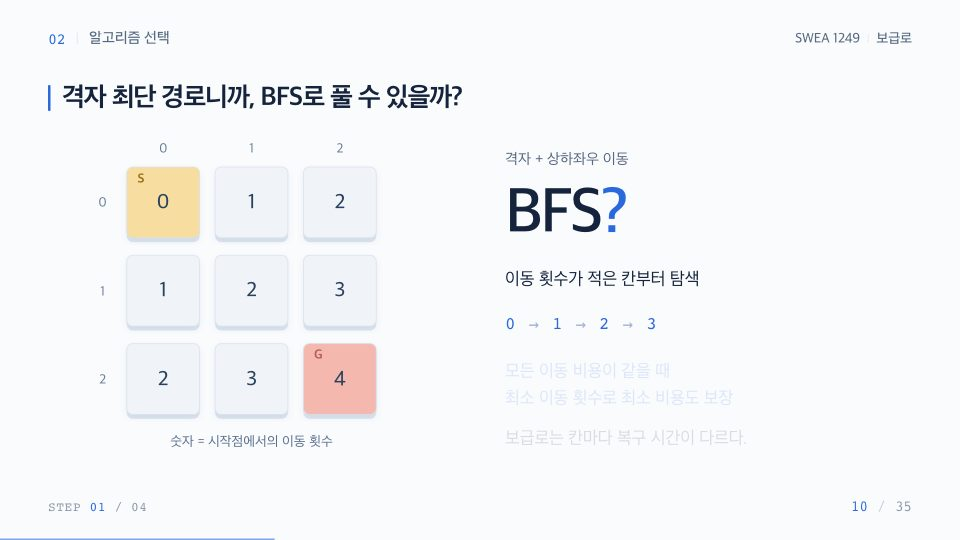
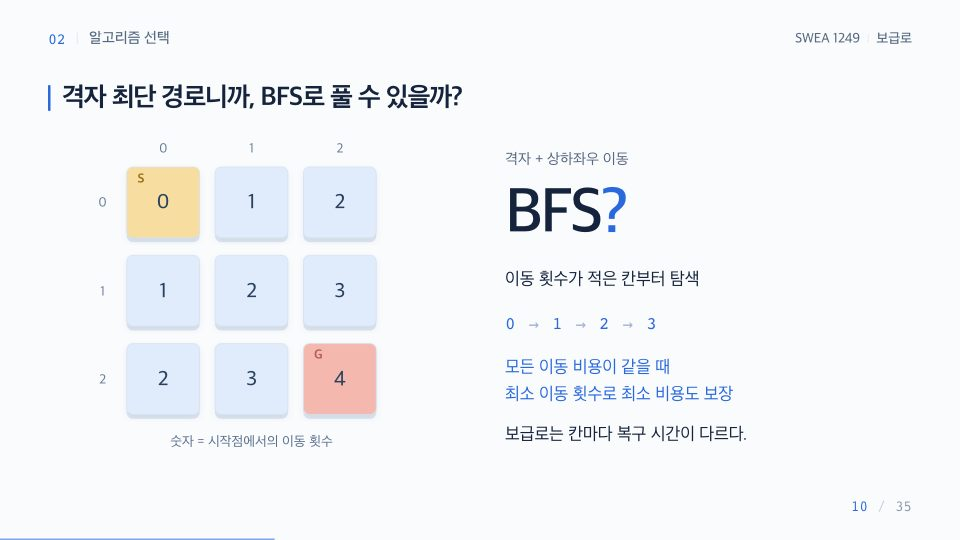
Automatically reveal introductory slides without manual steps

diff --git a/src/app/automaticReveal.test.ts b/src/app/automaticReveal.test.ts
@@ -1,0 +1,66 @@
+import test from "node:test";
+import assert from "node:assert/strict";
+import { renderToStaticMarkup } from "react-dom/server";
+import { createElement } from "react";
+import { AUTO_REVEAL_INTERVAL_MS, scheduleAutomaticReveal } from "./automaticReveal";
+import { AlgorithmCandidates } from "../components/AlgorithmSelection";
+
+test("entrance phases appear in order, once, then stop", context => {
+  context.mock.timers.enable({ apis: ["setTimeout"] });
+  const seen: number[] = [];
+  const cleanup = scheduleAutomaticReveal(4, stage => seen.push(stage));
+  context.mock.timers.tick(AUTO_REVEAL_INTERVAL_MS - 1);
+  assert.deepEqual(seen, []);
+  context.mock.timers.tick(1);
+  assert.deepEqual(seen, [1]);
+  context.mock.timers.tick(AUTO_REVEAL_INTERVAL_MS);
+  assert.deepEqual(seen, [1, 2]);
+  context.mock.timers.tick(AUTO_REVEAL_INTERVAL_MS);
+  assert.deepEqual(seen, [1, 2, 3]);
+  context.mock.timers.tick(60_000);
+  assert.deepEqual(seen, [1, 2, 3]);
+  cleanup();
+});
+
+test("slide exit cancels pending reveals and re-entry starts a fresh sequence", context => {
+  context.mock.timers.enable({ apis: ["setTimeout"] });
+  const first: number[] = [];
+  const stop = scheduleAutomaticReveal(4, stage => first.push(stage));
+  context.mock.timers.tick(AUTO_REVEAL_INTERVAL_MS);
+  stop();
+  const second: number[] = [];
+  const stopAgain = scheduleAutomaticReveal(3, stage => second.push(stage));
+  context.mock.timers.tick(AUTO_REVEAL_INTERVAL_MS - 1);
+  assert.deepEqual(second, []);
+  context.mock.timers.tick(1);
+  assert.deepEqual(second, [1]);
+  context.mock.timers.tick(60_000);
+  assert.deepEqual(first, [1]);
+  assert.deepEqual(second, [1, 2]);
+  stopAgain();
+});
+
+test("StrictMode setup and cleanup do not duplicate entrance phases", context => {
+  context.mock.timers.enable({ apis: ["setTimeout"] });
+  const seen: number[] = [];
+  scheduleAutomaticReveal(3, stage => seen.push(stage))();
+  const cleanup = scheduleAutomaticReveal(3, stage => seen.push(stage));
+  context.mock.timers.tick(60_000);
+  assert.deepEqual(seen, [1, 2]);
+  cleanup();
+});
+
+test("candidate rows reveal individually before the concluding BFS emphasis", () => {
+  for (let stage = 0; stage <= 5; stage++) {
+    const html = renderToStaticMarkup(createElement(AlgorithmCandidates, { step: stage }));
+    const tbody = html.split("<tbody>")[1].split("</tbody>")[0];
+    const rows = tbody.match(/<tr\b[^>]*>/g) ?? [];
+    assert.equal(rows.length, 5);
+    rows.forEach((row, index) => {
+      assert.ok(row.includes(`aria-hidden="${index > stage}"`));
+      assert.ok(row.includes(`opacity:${index > stage ? 0 : 1}`));
+    });
+    assert.equal(html.includes('class="candidate-bfs"'), stage === 5);
+    assert.ok(html.includes(`class="selection-takeaway" aria-hidden="${stage < 5}"`));
+  }
+});

diff --git a/src/slides/slides.tsx b/src/slides/slides.tsx
@@ -82,13 +82,13 @@ export function SlideContent({ id, step }: { id: string; step: number }) {
             <span className="label">출발점 S</span>
             <strong>(0, 0)</strong>
           </p>
-          <Reveal show={step >= 1}>
+          <Reveal show={step >= 1} hiddenOpacity={0}>
             <p>
               <span className="label">도착점 G</span>
               <strong>(N−1, N−1)</strong>
             </p>
           </Reveal>
-          <Reveal show={step >= 2}>
+          <Reveal show={step >= 2} hiddenOpacity={0}>
             <p className="muted">
               N × N 격자 · 0-based 인덱스
               <br />
@@ -127,13 +127,13 @@ export function SlideContent({ id, step }: { id: string; step: number }) {
             <span>이동 거리 · 이동 횟수</span>
             <span>×</span>
           </div>
-          <Reveal show={step >= 1}>
+          <Reveal show={step >= 1} hiddenOpacity={0}>
             <div className="objective-row blue">
               <span>복구 시간의 합</span>
               <Icon name="check" size={40} />
             </div>
           </Reveal>
-          <Reveal show={step >= 2}>
+          <Reveal show={step >= 2} hiddenOpacity={0}>
             <p className="objective-result">
               칸마다 비용 <b>0~9</b>
               <br />
@@ -156,7 +156,7 @@ export function SlideContent({ id, step }: { id: string; step: number }) {
           <div className="bfs-levels">
             0 <span>→</span> 1 <span>→</span> 2 <span>→</span> 3
           </div>
-          <Reveal show={step >= 3}>
+          <Reveal show={step >= 3} hiddenOpacity={0}>
             <p className="blue">
               모든 이동 비용이 같을 때<br />
               최소 이동 횟수로 최소 비용도 보장
@@ -181,7 +181,7 @@ export function SlideContent({ id, step }: { id: string; step: number }) {
             ["상하좌우 이동", "간선 · Edge"],
             ["복구 시간", "가중치 · Weight"],
           ].map(([a, b], i) => (
-            <Reveal key={a} show={step >= i + 1}>
+            <Reveal key={a} show={step >= i + 1} hiddenOpacity={0}>
               <span>{a}</span>
               <i>→</i>
               <strong>{b}</strong>

diff --git a/src/slides/deck.ts b/src/slides/deck.ts
@@ -1,6 +1,7 @@
 import { graphPresentationSteps, gridSteps } from "../dijkstra/snapshots";
 import { chapters } from "./chapters";
 import { javaSteps, gridCodeSteps } from "./code";
+import { algorithmChoices } from "./algorithmChoices";
 
 export type SlideDefinition = {
   id: string;
@@ -8,6 +9,8 @@ export type SlideDefinition = {
   sectionName: string;
   title: string;
   steps: number;
+  // Entry animation phases are independent of keyboard navigation and URL steps.
+  autoRevealStages?: number;
   kind: "cover" | "agenda" | "chapter" | "content" | "closing";
 };
 
@@ -31,35 +34,40 @@ const contentSlides = [
     section: "01",
     sectionName: "문제 이해",
     title: "한 번에 한 칸, 상하좌우로 이동한다",
-    steps: 3,
+    steps: 1,
+    autoRevealStages: 3,
   },
   {
     id: "objective",
     section: "01",
     sectionName: "문제 이해",
     title: "최소화해야 하는 것은 총 복구 시간이다",
-    steps: 3,
+    steps: 1,
+    autoRevealStages: 3,
   },
   {
     id: "candidates",
     section: "02",
     sectionName: "알고리즘 선택",
     title: "그래프 탐색과 최단 경로의 대표 알고리즘",
-    steps: 2,
+    steps: 1,
+    autoRevealStages: algorithmChoices.length + 1,
   },
   {
     id: "interpretation",
     section: "02",
     sectionName: "알고리즘 선택",
     title: "격자도 결국 그래프다",
-    steps: 4,
+    steps: 1,
+    autoRevealStages: 4,
   },
   {
     id: "bfs",
     section: "02",
     sectionName: "알고리즘 선택",
     title: "격자 최단 경로니까, BFS로 풀 수 있을까?",
-    steps: 4,
+    steps: 1,
+    autoRevealStages: 4,
   },
   {
     id: "counterexample",

diff --git a/src/app/deck.test.ts b/src/app/deck.test.ts
@@ -41,6 +41,29 @@ test("selection introduces candidates and graph interpretation before BFS and it
   );
 });
 
+test("only pages 05, 06, 08, 09 and 10 reveal automatically with no manual steps", () => {
+  const automatic = slides.filter(slide => slide.autoRevealStages !== undefined);
+  assert.deepEqual(automatic.map(slide => slides.indexOf(slide) + 1), [5, 6, 8, 9, 10]);
+  assert.deepEqual(automatic.map(slide => slide.id),
+    ["rules", "objective", "candidates", "interpretation", "bfs"]);
+  assert.deepEqual(automatic.map(slide => slide.autoRevealStages), [3, 3, 6, 4, 4]);
+  const lengths = slides.map(slide => slide.steps);
+  const reduce = createPresentationReducer(lengths);
+  for (const slide of automatic) {
+    const index = slides.indexOf(slide);
+    assert.equal(slide.steps, 1);
+    // Old shared step URLs are normalized to the single navigable state.
+    const state = readLocation(`?scene=${index + 1}&step=4`, lengths);
+    assert.equal(state.step, 0);
+    assert.equal(reduce(state, { type: "next" }).index, index + 1);
+    assert.equal(reduce(state, { type: "previous" }).index, index - 1);
+    assert.deepEqual(reduce(state, { type: "play" }), state);
+    assert.deepEqual(reduce(state, { type: "tick" }), state);
+  }
+  assert.equal(slides.find(slide => slide.id === "counterexample")?.steps, 3);
+  assert.equal(slides.find(slide => slide.id === "choice")?.steps, 4);
+});
+
 test("grid execution follows the code directly inside chapter four", () => {
   const codeIndex = slides.findIndex(slide => slide.id === "grid-code");
   assert.deepEqual(slides.slice(codeIndex, codeIndex + 3).map(slide => slide.id),

diff --git a/src/components/AlgorithmSelection.tsx b/src/components/AlgorithmSelection.tsx
@@ -1,8 +1,10 @@
 import { algorithmChoices } from "../slides/algorithmChoices";
 import { Reveal } from "./ConceptVisuals";
 import { Icon } from "./Icon";
+import { motion } from "framer-motion";
 
 export function AlgorithmCandidates({ step }: { step: number }) {
+  const complete = step >= algorithmChoices.length;
   return (
     <div className="algorithm-candidates">
       <p className="selection-lead">
@@ -16,20 +18,24 @@ export function AlgorithmCandidates({ step }: { step: number }) {
           </tr>
         </thead>
         <tbody>
-          {algorithmChoices.map((algorithm) => (
-            <tr
+          {algorithmChoices.map((algorithm, index) => (
+            <motion.tr
               key={algorithm.id}
+              initial={false}
+              animate={{ opacity: step >= index ? 1 : 0 }}
+              transition={{ duration: 0.35 }}
+              aria-hidden={step < index}
               className={
-                step >= 1 && algorithm.id === "bfs" ? "candidate-bfs" : ""
+                complete && algorithm.id === "bfs" ? "candidate-bfs" : ""
               }
             >
               <th scope="row">{algorithm.name}</th>
               <td>{algorithm.purpose}</td>
-            </tr>
+            </motion.tr>
           ))}
         </tbody>
       </table>
-      <Reveal show={step >= 1} className="selection-takeaway">
+      <Reveal show={complete} hiddenOpacity={0} className="selection-takeaway">
         격자와 상하좌우 이동을 보면 <strong>BFS</strong>가 떠오른다.
       </Reveal>
     </div>

diff --git a/src/app/Presentation.tsx b/src/app/Presentation.tsx
@@ -7,6 +7,7 @@ import {
 } from "framer-motion";
 import { Icon } from "../components/Icon";
 import { SlideNavigator } from "../components/SlideNavigator";
+import { AutomaticReveal } from "../components/AutomaticReveal";
 import { fitStage } from "./navigation";
 import { slides, SlideContent } from "../slides/slides";
 import { graphPresentationSteps, gridSteps } from "../dijkstra/snapshots";
@@ -253,7 +254,13 @@ export function Presentation() {
               {!["cover", "chapter", "closing"].includes(slide.kind) && (
                 <h1 className="slide-title">{slide.title}</h1>
               )}
-              <SlideContent id={slide.id} step={step} />
+              {slide.autoRevealStages ? (
+                <AutomaticReveal stages={slide.autoRevealStages}>
+                  {(stage) => <SlideContent id={slide.id} step={stage} />}
+                </AutomaticReveal>
+              ) : (
+                <SlideContent id={slide.id} step={step} />
+              )}
             </motion.section>
           </AnimatePresence>
           <footer className="slide-footer">

diff --git a/src/components/AutomaticReveal.tsx b/src/components/AutomaticReveal.tsx
@@ -1,0 +1,22 @@
+import { useEffect, useState, type ReactNode } from "react";
+import { useReducedMotion } from "framer-motion";
+import { scheduleAutomaticReveal } from "../app/automaticReveal";
+
+// Mount inside the keyed slide, after the outgoing slide's exit has completed.
+// Content phases never change the presentation step or restart on parent renders.
+export function AutomaticReveal({
+  stages,
+  children,
+}: {
+  stages: number;
+  children: (stage: number) => ReactNode;
+}) {
+  const [stage, setStage] = useState(0);
+  const reduced = useReducedMotion();
+  useEffect(() => {
+    if (reduced) return;
+    return scheduleAutomaticReveal(stages, setStage);
+  }, [stages, reduced]);
+
+  return children(reduced ? stages - 1 : stage);
+}

diff --git a/src/app/automaticReveal.ts b/src/app/automaticReveal.ts
@@ -1,0 +1,13 @@
+export const AUTO_REVEAL_INTERVAL_MS = 900;
+
+// Schedule a finite entrance sequence, never a presentation navigation action.
+// Cleanup cancels pending phases on slide exit, reset, or StrictMode remount.
+export function scheduleAutomaticReveal(
+  stages: number,
+  onReveal: (stage: number) => void,
+) {
+  const timers = Array.from({ length: Math.max(0, stages - 1) }, (_, index) =>
+    setTimeout(() => onReveal(index + 1), (index + 1) * AUTO_REVEAL_INTERVAL_MS),
+  );
+  return () => timers.forEach(clearTimeout);
+}

diff --git a/src/components/ConceptVisuals.tsx b/src/components/ConceptVisuals.tsx
@@ -6,16 +6,18 @@ export function Reveal({
   show,
   children,
   className = "",
+  hiddenOpacity = 0.14,
 }: {
   show: boolean;
   children: React.ReactNode;
   className?: string;
+  hiddenOpacity?: number;
 }) {
   return (
     <motion.div
       className={className}
       initial={false}
-      animate={{ opacity: show ? 1 : 0.14, y: show ? 0 : 8 }}
+      animate={{ opacity: show ? 1 : hiddenOpacity, y: show ? 0 : 8 }}
       transition={{ duration: 0.35 }}
       aria-hidden={!show}
     >

diff --git a/scripts/capture-slide-thumbnails.js b/scripts/capture-slide-thumbnails.js
@@ -4,6 +4,7 @@ async (page) => {
   const originalUrl = page.url();
   const origin = await page.evaluate(() => location.origin);
   await page.setViewportSize({ width: 960, height: 540 });
+  // Entry-only animations show their complete content in thumbnail captures.
   await page.emulateMedia({ reducedMotion: "reduce" });
   const slides = await page.locator(".navigator-slide").evaluateAll(buttons =>
     buttons.map((button, index) => ({ id: button.dataset.slideId, scene: index + 1 })),

diff --git a/README.md b/README.md
@@ -36,7 +36,9 @@ npm run preview -- --port 5189
 
 일반 화면에서는 왼쪽에 35장 전체의 캡처 썸네일과 번호를 표시합니다. 각 이미지는 실제 슬라이드 첫 단계의 960×540 JPEG이며, 제목은 툴팁과 접근성 이름으로 제공합니다. 현재 슬라이드를 파란 테두리로 강조하고 목록을 자동으로 스크롤합니다. 이미지를 선택하면 자동재생을 멈추고 해당 슬라이드의 첫 단계로 이동합니다. 목록에서는 ↑/↓, Home/End로 포커스를 옮기고 Enter/Space로 선택합니다. 선택 후에는 발표 영역으로 포커스가 돌아갑니다. 목록 상단 전체화면 버튼 또는 F를 누르면 목록을 숨기며, 전체화면을 종료하면 현재 위치를 유지한 채 다시 표시합니다.
 
-URL `?scene=22&step=11`처럼 **1-based** 슬라이드·단계 번호로 직접 열 수 있습니다. 현재 위치는 URL에 반영되어 새로고침해도 복원됩니다. 자동재생 여부는 복원하지 않습니다.
+05·06·08·09·10페이지는 수동 STEP 없이 진입 시 약 0.9초 간격으로 내용을 순차 공개합니다. 08페이지는 후보 목록을 한 줄씩 보여준 뒤 BFS를 강조합니다. 다음 키는 공개가 끝나기 전에도 바로 다음 슬라이드로 이동하고, 다른 슬라이드에서 돌아오거나 R을 누르면 처음부터 다시 등장합니다. 공개는 한 번만 진행하며 자동으로 다음 페이지를 넘기지 않습니다. 동작 줄이기 설정에서는 대기 없이 전체 내용을 표시합니다. 이 다섯 페이지의 썸네일에는 전체 내용이 나타난 모습을 사용합니다.
+
+URL `?scene=22&step=11`처럼 **1-based** 슬라이드·단계 번호로 직접 열 수 있습니다. 현재 위치는 URL에 반영되어 새로고침해도 복원됩니다. 자동재생 여부는 복원하지 않습니다. 자동 등장 페이지의 이전 단계 URL은 `step=1`로 정규화합니다.
 
 ## 발표 구성
 
@@ -88,7 +90,7 @@ URL `?scene=22&step=11`처럼 **1-based** 슬라이드·단계 번호로 직접 
 
 슬라이드 내용이 바뀌면 `scripts/capture-slide-thumbnails.js`를 Playwright CLI의 `run-code --filename`으로 실행해 썸네일을 다시 생성합니다. 먼저 개발 서버의 일반 화면을 열어 두어야 합니다. 결과는 `output/playwright/slide-thumbnails/`에 저장되며, 확인 후 `public/slide-thumbnails/`에 복사하고 다시 빌드합니다. 캡처 중에만 목록과 조작부를 숨기며 발표 코드는 변경하지 않습니다. 파일명은 페이지 순서 대신 슬라이드 ID를 사용합니다.
 
-`npm test`는 37개 검증을 수행합니다. 문서의 모든 핵심 갱신, 정확한 간선·PQ 순서·최종 경로, 과거 스냅샷 독립성, 비용 0·순환·단일 칸, 80개 고정 시드 격자와 독립 Bellman–Ford 비교, 이전/다음 역연산, Reset·자동재생·URL 범위를 확인합니다. 실제 35장 구성의 모든 단계와 챕터 경계, 목차 순서, 알고리즘 선택 순서, 다익스트라 학습 순서, 축약 실행의 사건 보존, 갱신과 확정의 구분도 검증합니다. 후보를 꺼낸 뒤 비교하는 순서와 그 사이의 거리·확정 상태 보존, PQ 안에서의 사전 판정 표시가 없는지도 검증합니다. Java 코드 발췌의 원래 변수·자료구조 유지, 단계별 코드 범위와 강조 줄, 전체 보급로 코드와 발췌의 일치, 목적지 조기 종료 시 남은 PQ와 상태 보존도 확인합니다. 탐색 목록은 35개 항목과 현재 페이지의 정적 렌더링, JPEG 이미지 파일의 존재와 완전성, 키보드 포커스 범위, 선택 시 단계·재생 상태와 URL 복원, 표시 영역에 맞는 배율 계산을 검증합니다. 보급로 코드·격자 실행·결과가 같은 챕터에서 연속하는지도 검증합니다. 마지막 선택 기준과 핵심 복습 사이에 추가 챕터 전환이 없는지도 확인합니다.
+`npm test`는 42개 검증을 수행합니다. 문서의 모든 핵심 갱신, 정확한 간선·PQ 순서·최종 경로, 과거 스냅샷 독립성, 비용 0·순환·단일 칸, 80개 고정 시드 격자와 독립 Bellman–Ford 비교, 이전/다음 역연산, Reset·자동재생·URL 범위를 확인합니다. 실제 35장 구성의 모든 단계와 챕터 경계, 목차 순서, 알고리즘 선택 순서, 다익스트라 학습 순서, 축약 실행의 사건 보존, 갱신과 확정의 구분도 검증합니다. 후보를 꺼낸 뒤 비교하는 순서와 그 사이의 거리·확정 상태 보존, PQ 안에서의 사전 판정 표시가 없는지도 검증합니다. Java 코드 발췌의 원래 변수·자료구조 유지, 단계별 코드 범위와 강조 줄, 전체 보급로 코드와 발췌의 일치, 목적지 조기 종료 시 남은 PQ와 상태 보존도 확인합니다. 탐색 목록은 35개 항목과 현재 페이지의 정적 렌더링, JPEG 이미지 파일의 존재와 완전성, 키보드 포커스 범위, 선택 시 단계·재생 상태와 URL 복원, 표시 영역에 맞는 배율 계산을 검증합니다. 보급로 코드·격자 실행·결과가 같은 챕터에서 연속하는지도 검증합니다. 마지막 선택 기준과 핵심 복습 사이에 추가 챕터 전환이 없는지도 확인합니다. 자동 등장 대상 다섯 페이지의 단일 넘김, 이전 URL 정규화, 0.9초 간격과 종료, 페이지 이탈 시 타이머 취소, 재진입과 StrictMode에서의 중복 방지, 후보 목록의 한 줄씩 공개도 검증합니다.
 
 Java 예제는 `javac`로 컴파일하고 문서의 3×3 격자, 1×1, 비용 0 격자, 비용이 다른 2×2 격자에서 각각 3, 0, 0, 1을 확인했습니다.
 
